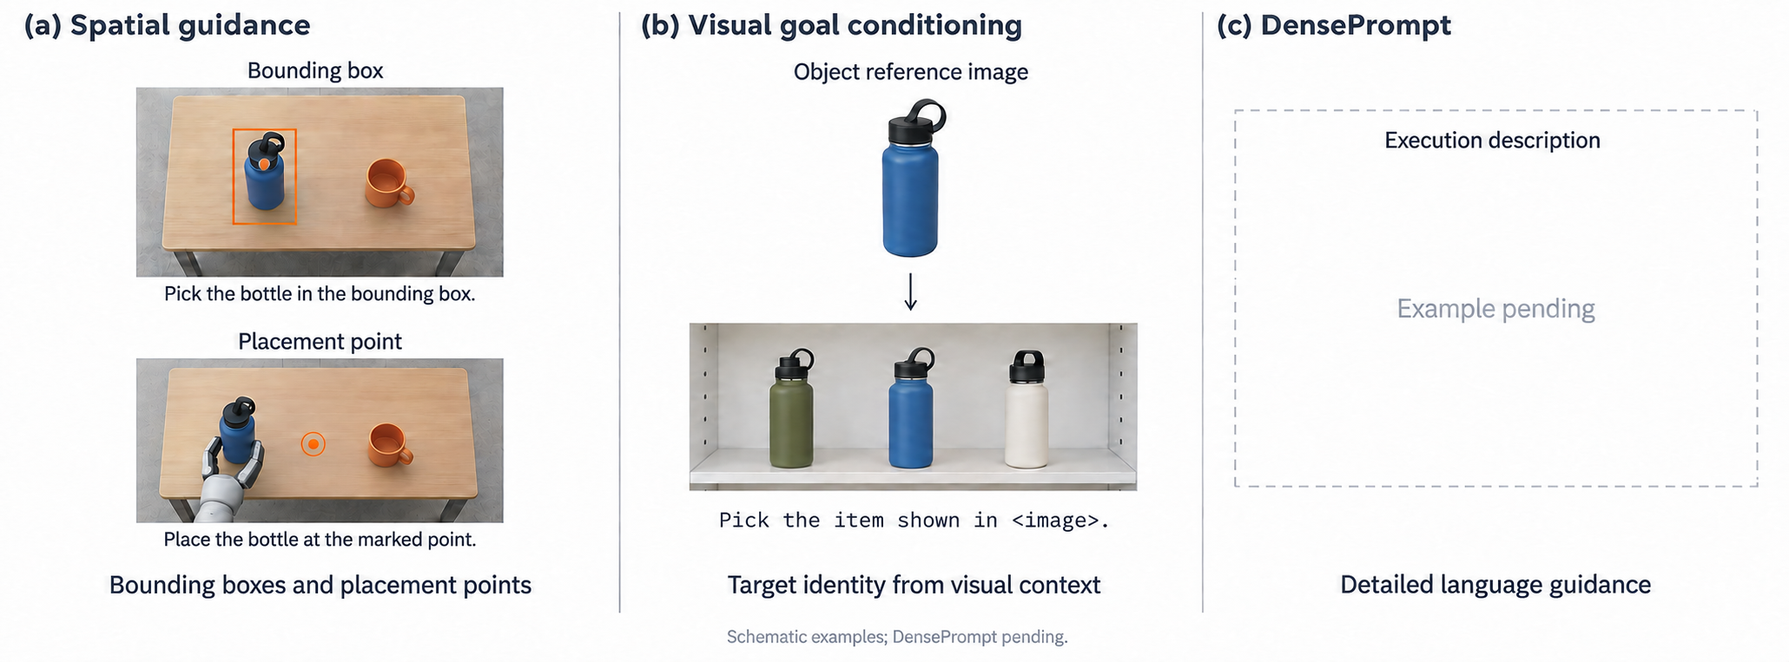
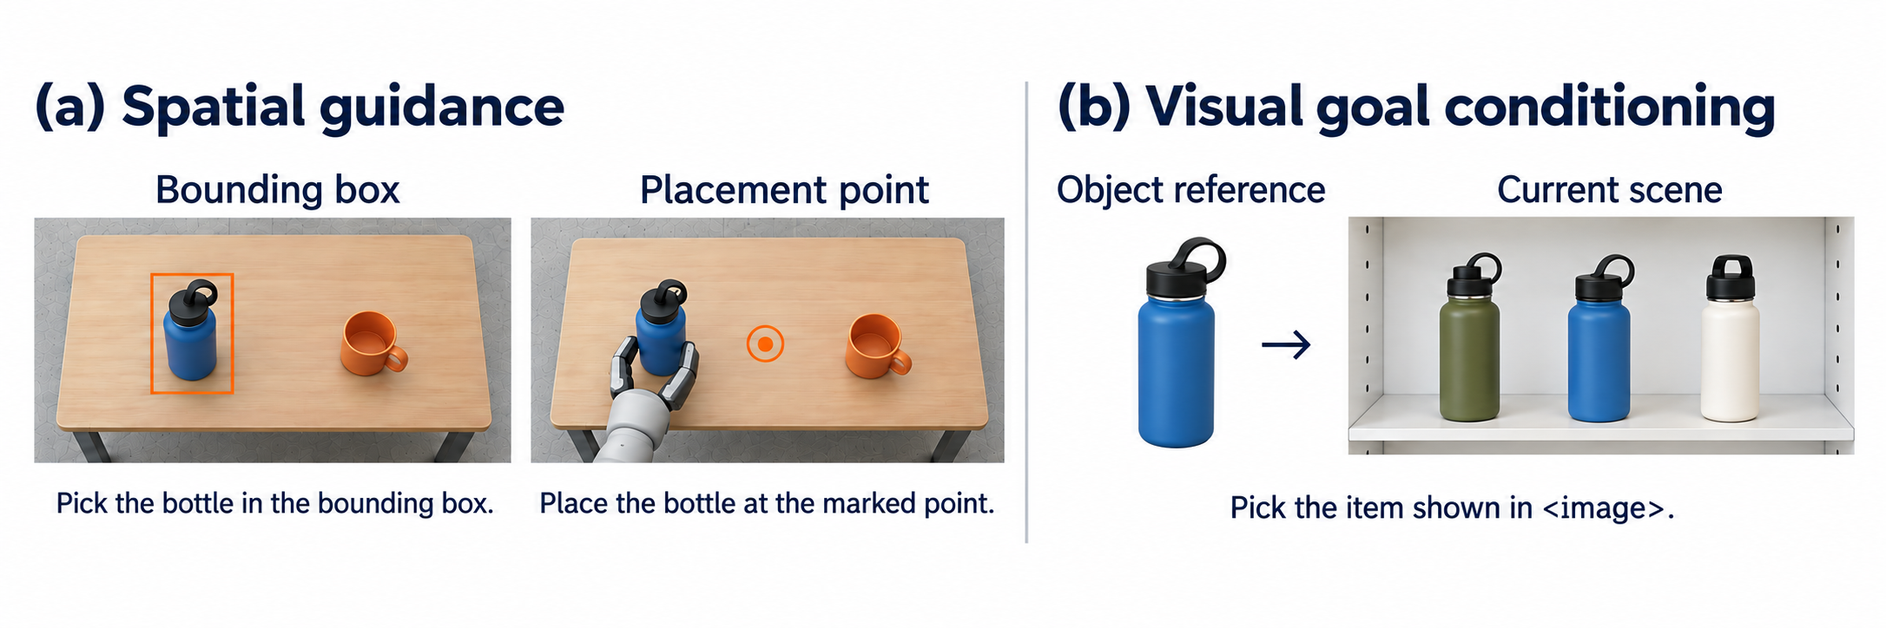
Reframe project page around EEP contracts and adaptation

diff --git a/index.html b/index.html
@@ -4,7 +4,7 @@
     <meta charset="UTF-8" />
     <meta name="viewport" content="width=device-width, initial-scale=1.0" />
     <meta name="description" content="GenieMaster: an embodied continual harness for persistent multi-robot work." />
-    <title>GenieMaster | An Embodied Continual Harness</title>
+    <title>GenieMaster | Embodied Execution Protocol</title>
     <link rel="preconnect" href="https://fonts.googleapis.com" />
     <link rel="preconnect" href="https://fonts.gstatic.com" crossorigin />
     <link href="https://fonts.googleapis.com/css2?family=DM+Mono:wght@400;500&family=DM+Sans:wght@400;500;600;700&family=Source+Serif+4:opsz,wght@8..60,500;8..60,600;8..60,700&display=swap" rel="stylesheet" />
@@ -15,10 +15,10 @@
       <div class="header-inner">
         <a class="brand" href="#top">GenieMaster</a>
         <nav class="top-nav" aria-label="Page sections">
-          <a href="#features">Features</a>
-          <a href="#protocol">Protocol</a>
-          <a href="#guidance">Guidance</a>
-          <a href="#evidence">Evidence</a>
+          <a href="#eep">EEP</a>
+          <a href="#contracts">Contracts</a>
+          <a href="#adaptation">Adaptation</a>
+          <a href="#experiments">Experiments</a>
         </nav>
         <div class="header-links">
           <a class="header-link" href="https://arxiv.org/" target="_blank" rel="noreferrer">Paper <span aria-hidden="true">&#8599;</span></a>
@@ -31,78 +31,52 @@
       <section class="intro section-shell">
         <p class="kicker">Research project / 2026</p>
         <h1>GenieMaster: An Embodied Continual Harness for Persistent Multi-Robot Work</h1>
-        <p class="standfirst">How can a general-purpose agent keep robots useful after the first action, the first task, or the first failure? GenieMaster connects high-level reasoning to responsive, closed-loop execution through a shared interface for guidance, feedback, and task continuity.</p>
+        <p class="standfirst">Frontier agents can reason about unfamiliar tasks, while learned policies provide responsive physical control. GenieMaster connects the two through an Embodied Execution Protocol (EEP): a shared interface for capability invocation, policy guidance, physical feedback, and the continuity of unfinished work.</p>
         <div class="intro-meta"><span>Anonymous Authors</span><span>ICLR 2027 submission</span><span>Robotics / Agents / VLA</span></div>
       </section>
 
-      <section class="video-section section-shell" id="video">
-        <div class="video-heading"><span class="section-number">00</span><div><p class="kicker">Project film</p><h2>Persistent work, in motion.</h2></div></div>
-        <div class="video-placeholder" data-video-slot="main">
-          <div class="video-grid"></div>
-          <div class="video-copy"><span class="video-play" aria-hidden="true">&#9654;</span><strong>Main video placeholder</strong><span>Replace with the project film (.mp4 / .webm)</span></div>
-          <span class="video-label">GENIEMASTER / MAIN FILM</span>
-        </div>
-        <p class="video-caption">The film will introduce the complete loop: an agent interprets a request, supplies actionable context, observes physical outcomes, and keeps the work moving across robots and interruptions.</p>
-      </section>
-
-      <section class="article-section section-shell" id="problem">
-        <div class="article-grid"><aside class="chapter-rail"><span class="section-number">01</span><span class="rail-title">Why this problem</span></aside><article class="article-copy">
-          <p class="kicker">The deployment gap</p><h2>Robots need more than a plan.</h2>
-          <p>Frontier agents can reason about unfamiliar tasks and objects, while learned policies can react at the timescale of physical contact. A deployed system needs both. It must turn broad reasoning into signals a policy can use, then decide what actually happened after the action.</p>
-          <p>That loop becomes harder when work persists. Requests arrive dynamically, a higher-priority task interrupts the current one, and one robot's progress can determine whether another robot can proceed. A system that forgets unfinished work at every boundary cannot coordinate reliably.</p>
-          <div class="pull-quote">The central question is not only what action to take, but how to keep useful work going after the world responds.</div>
+      <section class="article-section eep-section section-shell" id="eep">
+        <div class="article-grid"><aside class="chapter-rail"><span class="section-number">01</span><span class="rail-title">The execution protocol</span></aside><article class="article-copy wide-copy">
+          <p class="kicker">Embodied Execution Protocol</p><h2>One interface for reasoning, action, and what happens next.</h2>
+          <p>EEP is the agent&#8211;embodiment interface at the center of GenieMaster. It lets a coding agent invoke robot capabilities, provide context that a policy has learned to use, inspect physical outcomes, and carry unfinished work across invocations and robots.</p>
+          <p>The protocol is inspired by the tool abstraction of Model Context Protocol (MCP). Domain workflows express task semantics; embodiment implementations bind those workflows to robot instances, calibration, and execution services. Shared descriptions, parameters, and result contracts keep orchestration extensible.</p>
+          <figure class="image-frame architecture-frame"><img src="assets/geniemaster-architecture.png" alt="GenieMaster architecture showing EEP contracts, policy guidance, feedback, continuity, and experience memory" /><figcaption><span>FIG. 01</span><span>EEP architecture</span></figcaption></figure>
+          <p class="figure-note">The four contracts describe the information that must cross the boundary between the agent and the physical world. Guidance and Feedback form a bidirectional agent&#8211;policy interface; Continuity and memory keep work moving over time.</p>
         </article></div>
       </section>
 
-      <section class="article-section feature-section section-shell" id="features">
-        <div class="article-grid"><aside class="chapter-rail"><span class="section-number">02</span><span class="rail-title">What GenieMaster adds</span></aside><article class="article-copy wide-copy">
-          <p class="kicker">Core features</p><h2>Three interfaces make continual work possible.</h2>
-          <p>GenieMaster is organized around the information that must cross the boundary between an agent and a robot. Each feature addresses a different failure mode in long-running execution.</p>
-          <div class="feature-list">
-            <article class="feature-row feature-blue"><span class="feature-index">01</span><div><h3>Multimodal policy guidance</h3><p>The agent can provide detailed language, spatial cues, and object reference images. These are not post-hoc annotations: the policy is trained to interpret the same guidance representations it receives during deployment.</p></div></article>
-            <article class="feature-row feature-orange"><span class="feature-index">02</span><div><h3>Bidirectional execution feedback</h3><p>Observations, progress, success, and error evidence return to the agent. The agent can advance a subtask, revise its guidance, or trigger recovery instead of assuming that an action succeeded.</p></div></article>
-            <article class="feature-row feature-green"><span class="feature-index">03</span><div><h3>Persistent task state and memory</h3><p>Assignments, dependencies, unfinished work, and execution experience are retained. Temporary memory supports ongoing tasks, while asynchronous reflection turns experience into reusable context for later orchestration.</p></div></article>
+      <section class="article-section feature-section section-shell" id="contracts">
+        <div class="article-grid"><aside class="chapter-rail"><span class="section-number">02</span><span class="rail-title">EEP contracts</span></aside><article class="article-copy wide-copy">
+          <p class="kicker">Capability / Guidance / Feedback / Continuity</p><h2>Four contracts make persistent execution legible.</h2>
+          <p>Each contract answers a different question: what can the system do, what should the policy use, what physically happened, and what must remain true when the next task arrives?</p>
+          <div class="contract-list">
+            <article class="contract-row contract-capability"><span class="contract-index">01</span><div><h3>Capability</h3><p>Domain tools compose workflows such as navigation, pick, and place. Embodiment tools connect those operations to a selected robot and its execution services.</p><span class="contract-detail">Tool name / arguments / execution result</span></div></article>
+            <article class="contract-row contract-guidance"><span class="contract-index">02</span><div><h3>Guidance</h3><p>The agent supplies detailed language, spatial cues, or object reference images alongside observations, robot state, and the subtask instruction.</p><span class="contract-detail">Context the policy is trained to use</span></div></article>
+            <article class="contract-row contract-feedback"><span class="contract-index">03</span><div><h3>Feedback</h3><p>Observations, status, and success/error evidence return to the agent. The agent can advance, revise guidance, arrange another observation, or recover.</p><span class="contract-detail">Evidence for progression and recovery</span></div></article>
+            <article class="contract-row contract-continuity"><span class="contract-index">04</span><div><h3>Continuity</h3><p>Assignments, progress, dependencies, and unfinished tasks persist across invocations. This supports coordination when work is interrupted or a robot changes.</p><span class="contract-detail">Task context that survives the boundary</span></div></article>
           </div>
+          <div class="contract-callout"><strong>Guidance and Feedback are bidirectional.</strong><span>The agent guides a responsive policy; physical evidence informs the next decision.</span></div>
         </article></div>
       </section>
 
-      <section class="article-section section-shell" id="protocol">
-        <div class="article-grid"><aside class="chapter-rail"><span class="section-number">03</span><span class="rail-title">How it works</span></aside><article class="article-copy wide-copy">
-          <p class="kicker">Embodied Execution Protocol</p><h2>A stable contract between reasoning and action.</h2>
-          <p>The protocol exposes capabilities through shared tool descriptions, input parameters, and result contracts. Domain interfaces describe task semantics and business context; embodiment interfaces bind those tasks to robot instances and execution services.</p>
-          <figure class="image-frame architecture-frame"><img src="assets/geniemaster-architecture.png" alt="GenieMaster architecture showing domain, embodiment, coding agent, robot execution services, feedback, recovery, and memory" /><figcaption><span>FIG. 01</span><span>Embodied Execution Protocol</span></figcaption></figure>
-          <p class="figure-note">The coding agent composes execution requests, receives physical evidence, and keeps task context available across invocations. This separation lets the harness coordinate heterogeneous robots without changing the high-level task interface.</p>
+      <section class="article-section section-shell" id="adaptation">
+        <div class="article-grid"><aside class="chapter-rail"><span class="section-number">03</span><span class="rail-title">Continual harness adaptation</span></aside><article class="article-copy wide-copy">
+          <p class="kicker">Co-design, reflection, and memory</p><h2>Experience changes the next invocation while the policy stays responsive.</h2>
+          <p>A policy cannot use context that it has never learned to interpret. GenieMaster co-designs the guidance interface, demonstration annotations, and VLA training, so spatial cues, object references, and detailed language become executable conditions rather than extra text.</p>
+          <figure class="image-frame guidance-frame"><img src="assets/guidance-modalities-mj.png" alt="Examples of spatial guidance, object reference images, and detailed language guidance" /><figcaption><span>FIG. 02</span><span>Guidance modalities</span></figcaption></figure>
+          <div class="explanation-grid"><div><h3>Guide</h3><p>The agent grounds an open-ended request in the current scene, a catalog, or an object reference.</p></div><div><h3>Assess</h3><p>Success and error context makes physical outcomes available for task progression and recovery.</p></div><div><h3>Adapt</h3><p>Reflection turns records into reusable guidance, assessment criteria, and orchestration context.</p></div></div>
+          <div class="adaptation-grid"><article><span class="adaptation-label">Temporary memory</span><h3>Correct the work in front of you.</h3><p>Recent execution records inform subsequent policy conditions, detector context, and task orchestration while a task is still active.</p></article><article><span class="adaptation-label">Long-term memory</span><h3>Retain what is useful later.</h3><p>Asynchronous reflection consolidates experience for later tasks and compatible robots. Deployment changes context and invocation behavior while model parameters remain fixed.</p></article></div>
+          <div class="pull-quote">The harness evolves through the information it retains, not through a new model update for every physical mistake.</div>
         </article></div>
       </section>
 
-      <section class="article-section section-shell" id="guidance">
-        <div class="article-grid"><aside class="chapter-rail"><span class="section-number">04</span><span class="rail-title">What the policy sees</span></aside><article class="article-copy wide-copy">
-          <p class="kicker">Agent-policy co-design</p><h2>Context only helps when the policy can use it.</h2>
-          <p>An agent may identify a product from a catalog, locate an interaction point, or describe a safer approach. GenieMaster aligns demonstrations, annotations, and VLA training around those same inputs, so acquired context becomes executable behavior.</p>
-          <figure class="image-frame guidance-frame"><img src="assets/guidance-modalities-mj.png" alt="Spatial guidance, object reference image, and detailed language guidance examples" /><figcaption><span>FIG. 02</span><span>Guidance modalities</span></figcaption></figure>
-          <div class="explanation-grid"><div><h3>Spatial cues</h3><p>Boxes, points, and trajectories localize the target and the intended interaction in the current camera view.</p></div><div><h3>Object references</h3><p>A reference image grounds a request in a product or object that may be absent from the training distribution.</p></div><div><h3>Detailed language</h3><p>Execution descriptions expose order, arm assignment, approach direction, and contact constraints.</p></div></div>
-        </article></div>
-      </section>
-
-      <section class="article-section section-shell" id="demos">
-        <div class="article-grid"><aside class="chapter-rail"><span class="section-number">05</span><span class="rail-title">Video cases</span></aside><article class="article-copy wide-copy">
-          <p class="kicker">Real-world evaluations</p><h2>Long-horizon work has many moments that can go wrong.</h2>
-          <p>Once the main film is available, this section will hold short, annotated case videos. Each clip should show the request, the guidance supplied by the agent, the physical outcome, and the next orchestration decision.</p>
-          <div class="demo-list">
-            <article class="demo-row" data-video-slot="demo-1"><span class="demo-number">01</span><div><h3>Novel product retrieval</h3><p>Use a reference image and store context to retrieve an unseen SKU.</p></div><span class="demo-status">Video coming soon &#8599;</span></article>
-            <article class="demo-row" data-video-slot="demo-2"><span class="demo-number">02</span><div><h3>Long-horizon household work</h3><p>Continue a task across multiple subtasks and changing physical conditions.</p></div><span class="demo-status">Video coming soon &#8599;</span></article>
-            <article class="demo-row" data-video-slot="demo-3"><span class="demo-number">03</span><div><h3>Multi-robot coordination</h3><p>Assign concurrent work and use progress to resolve dependencies.</p></div><span class="demo-status">Video coming soon &#8599;</span></article>
-            <article class="demo-row" data-video-slot="demo-4"><span class="demo-number">04</span><div><h3>Failure and recovery</h3><p>Return evidence to the agent and revise the next execution request.</p></div><span class="demo-status">Video coming soon &#8599;</span></article>
-          </div>
-        </article></div>
-      </section>
-
-      <section class="article-section section-shell" id="evidence">
-        <div class="article-grid"><aside class="chapter-rail"><span class="section-number">06</span><span class="rail-title">Evidence</span></aside><article class="article-copy wide-copy">
-          <p class="kicker">Selected results</p><h2>Experience becomes better execution.</h2>
-          <p>Our experiments isolate how capability expansion, agent-provided visual context, and continual reflection affect robot work. The figures below are selected from the paper and will be updated with final links and captions.</p>
-          <div class="metrics"><div><strong>78.79%</strong><span>macro success rate across six real-world tasks</span></div><div><strong>92%</strong><span>novel product success with visual guidance</span></div><div><strong>24 h</strong><span>convenience-store deployment window</span></div></div>
-          <div class="result-grid"><figure class="image-frame result-large"><img src="assets/product-generalization.png" alt="Product generalization results" /><figcaption><span>Product generalization</span><span>Novel SKU retrieval</span></figcaption></figure><figure class="image-frame"><img src="assets/capability-expansion.png" alt="Capability expansion results" /><figcaption><span>Capability expansion</span><span>Tool integration</span></figcaption></figure><figure class="image-frame"><img src="assets/orchestration-self-evolution.png" alt="Orchestration self evolution results" /><figcaption><span>Continual adaptation</span><span>Reflection and memory</span></figcaption></figure></div>
+      <section class="article-section feature-section section-shell" id="experiments">
+        <div class="article-grid"><aside class="chapter-rail"><span class="section-number">04</span><span class="rail-title">Experiments</span></aside><article class="article-copy wide-copy">
+          <p class="kicker">Evidence across the same execution loop</p><h2>From end-to-end work to experience-based adaptation.</h2>
+          <p>The evaluations examine integrated task execution, capability composition, guidance-policy co-design, completion assessment, accumulated memory, and benchmark performance.</p>
+          <div class="metrics"><div><strong>78.79%</strong><span>macro success across six real-world tasks</span><small>vs. 38.76% for Dual-system</small></div><div><strong>92%</strong><span>novel-product retrieval at 1,000 training SKUs</span><small>vs. 20% for text-only policy</small></div><div><strong>60.38%</strong><span>LIBERO-Pro success</span><small>49.6-point gain over the listed policy baseline</small></div></div>
+          <div class="result-grid"><figure class="image-frame result-large"><img src="assets/product-generalization.png" alt="Product generalization results comparing EEP-guided and text-only policies" /><figcaption><span>Guidance-policy co-design</span><span>Novel product retrieval</span></figcaption></figure><figure class="image-frame"><img src="assets/capability-expansion.png" alt="Capability expansion results" /><figcaption><span>Capability expansion</span><span>Tool composition</span></figcaption></figure><figure class="image-frame"><img src="assets/orchestration-self-evolution.png" alt="Orchestration with accumulated memory results" /><figcaption><span>Experience adaptation</span><span>Five rounds of memory</span></figcaption></figure></div>
+          <div class="experiment-notes"><article><span class="note-number">A</span><div><h3>Learning from experience</h3><p>After one round of reflection, completion-boundary alignment improves for six of seven detectors. In five orchestration rounds, success rises from 28.6% to 85.7% as consolidated memory informs later decisions.</p></div></article><article><span class="note-number">B</span><div><h3>Persistent deployment</h3><p>A 24-hour convenience-store case study routes scheduled tasks, execution-triggered follow-ups, and customer requests through the same EEP contracts as the controlled evaluations.</p></div></article></div>
         </article></div>
       </section>
 

diff --git a/styles.css b/styles.css
@@ -8,5 +8,6 @@
 .demo-list{margin-top:40px;border-top:1px solid var(--line)}.demo-row{display:grid;grid-template-columns:42px 1fr auto;gap:20px;align-items:center;padding:22px 0;border-bottom:1px solid var(--line);cursor:pointer;transition:padding .2s ease,background .2s ease}.demo-row:hover{padding-right:13px;padding-left:13px;background:var(--blue-pale)}.demo-row h3{margin-bottom:5px;font-size:20px}.demo-row p{margin:0;color:var(--muted);font-size:13px}.demo-status{color:var(--blue);font:10px var(--mono);white-space:nowrap}.metrics{display:grid;grid-template-columns:repeat(3,1fr);gap:1px;margin:42px 0 30px;border:1px solid var(--line);background:var(--line)}.metrics>div{padding:21px;background:var(--white)}.metrics strong{display:block;color:var(--blue);font:600 42px var(--serif);line-height:1}.metrics span{display:block;margin-top:9px;color:var(--muted);font-size:12px;line-height:1.4}.result-grid{display:grid;grid-template-columns:1.25fr .875fr .875fr;gap:15px}.result-grid .image-frame{margin:0;overflow:hidden}.result-grid img{height:200px;object-fit:contain}.result-grid .result-large img{height:250px}.result-grid figcaption{flex-direction:column;gap:3px;align-items:flex-start}
 .paper-section{padding:105px 0;border-top:1px solid var(--line)}.paper-inner{max-width:945px;padding:46px 50px;border:1px solid var(--ink);background:var(--blue-pale)}.paper-inner h2{max-width:800px;margin-bottom:13px;font-size:clamp(32px,4vw,52px)}.paper-inner>p:not(.kicker){margin:0 0 24px;color:var(--muted);font-size:13px}.paper-buttons{display:flex;flex-wrap:wrap;gap:10px;margin-bottom:27px}.button{display:inline-flex;align-items:center;justify-content:center;gap:9px;min-height:43px;padding:0 16px;border:1px solid var(--ink);font-size:13px;font-weight:600}.button-dark{color:var(--white);background:var(--ink)}.button-disabled{color:var(--faint);border-color:var(--line);cursor:default}.button-disabled small{margin-left:2px}pre{margin:0;padding:16px;overflow-x:auto;border:1px solid rgba(49,109,136,.25);background:rgba(255,255,255,.65);color:var(--ink);font:11px/1.65 var(--mono)}.copy-button{margin-top:12px;padding:0;border:0;background:none;color:var(--blue);font:11px var(--mono);cursor:pointer}#copy-feedback{margin-left:12px;color:var(--green);font:11px var(--mono)}.site-footer{display:flex;justify-content:space-between;gap:20px;padding:26px 0 35px;color:var(--faint);font-size:12px}.site-footer a{color:var(--blue)}
 @media(max-width:850px){.top-nav{display:none}.header-links{margin-left:auto}.article-grid{grid-template-columns:1fr;gap:25px}.chapter-rail{align-items:center}.rail-title{max-width:none}.article-copy{max-width:760px}}
-@media(max-width:620px){.header-inner,.section-shell{width:min(100% - 34px,1180px)}.header-inner{min-height:58px}.brand{font-size:17px}.header-links{gap:10px}.header-link small{display:none}.intro{padding:67px 0 63px}h1{font-size:clamp(42px,12vw,61px)}.standfirst{font-size:17px}.video-placeholder{min-height:330px}.video-caption{margin-left:0}.article-section,.paper-section{padding:73px 0}.feature-row{grid-template-columns:29px 1fr;gap:13px;padding:21px 18px}.explanation-grid,.metrics,.result-grid{grid-template-columns:1fr}.result-grid img,.result-grid .result-large img{height:auto}.demo-row{grid-template-columns:30px 1fr;gap:13px}.demo-status{grid-column:2}.paper-inner{padding:29px 21px}.site-footer{flex-wrap:wrap}.site-footer span:nth-child(2){width:100%;order:3}}
-
+@media(max-width:620px){.header-inner,.section-shell{width:min(100% - 34px,1180px)}.header-inner{min-height:58px}.brand{font-size:17px}.header-links{gap:10px}.header-link small{display:none}.intro{padding:67px 0 63px}h1{font-size:clamp(42px,12vw,61px)}.standfirst{font-size:17px}.article-section,.paper-section{padding:73px 0}.feature-row,.contract-row{grid-template-columns:29px 1fr;gap:13px;padding:21px 18px}.explanation-grid,.metrics,.result-grid,.adaptation-grid{grid-template-columns:1fr}.result-grid img,.result-grid .result-large img{height:auto}.paper-inner{padding:29px 21px}.site-footer{flex-wrap:wrap}.site-footer span:nth-child(2){width:100%;order:3}}
+.contract-list{display:grid;gap:12px;margin-top:40px}.contract-row{display:grid;grid-template-columns:42px 1fr;gap:21px;padding:24px 27px;border:1px solid var(--line);border-left:4px solid var(--blue);background:var(--white)}.contract-guidance{border-left-color:var(--orange)}.contract-feedback{border-left-color:var(--green)}.contract-continuity{border-left-color:#6d7185}.contract-row h3{margin-bottom:8px}.contract-row p{max-width:620px;margin:0;color:var(--muted);font-size:14px}.contract-index,.contract-detail,.adaptation-label,.note-number{color:var(--faint);font:11px var(--mono);letter-spacing:.06em;text-transform:uppercase}.contract-detail{display:block;margin-top:13px;color:var(--blue);font-size:10px}.contract-callout{display:flex;flex-wrap:wrap;align-items:baseline;gap:11px;margin-top:26px;padding:18px 20px;border-left:3px solid var(--orange);background:var(--white)}.contract-callout strong{font:600 18px var(--serif)}.contract-callout span{color:var(--muted);font-size:13px}.adaptation-grid{display:grid;grid-template-columns:repeat(2,1fr);gap:14px;margin-top:38px}.adaptation-grid article{padding:24px;border:1px solid var(--line);background:var(--white)}.adaptation-grid h3{margin:12px 0 8px;font-size:20px}.adaptation-grid p{margin:0;color:var(--muted);font-size:13px;line-height:1.55}.adaptation-label{color:var(--blue);font-size:10px}.adaptation-grid article:nth-child(2) .adaptation-label{color:var(--green)}.metrics small{display:block;margin-top:11px;color:var(--faint);font:10px/1.4 var(--mono)}.experiment-notes{display:grid;gap:1px;margin-top:32px;border:1px solid var(--line);background:var(--line)}.experiment-notes article{display:grid;grid-template-columns:30px 1fr;gap:16px;padding:21px;background:var(--white)}.experiment-notes h3{margin-bottom:6px;font-size:19px}.experiment-notes p{margin:0;color:var(--muted);font-size:13px;line-height:1.55}.note-number{color:var(--orange);font-size:12px}
+@media(max-width:620px){.contract-row{grid-template-columns:29px 1fr;gap:13px;padding:21px 18px}.adaptation-grid{grid-template-columns:1fr}}
